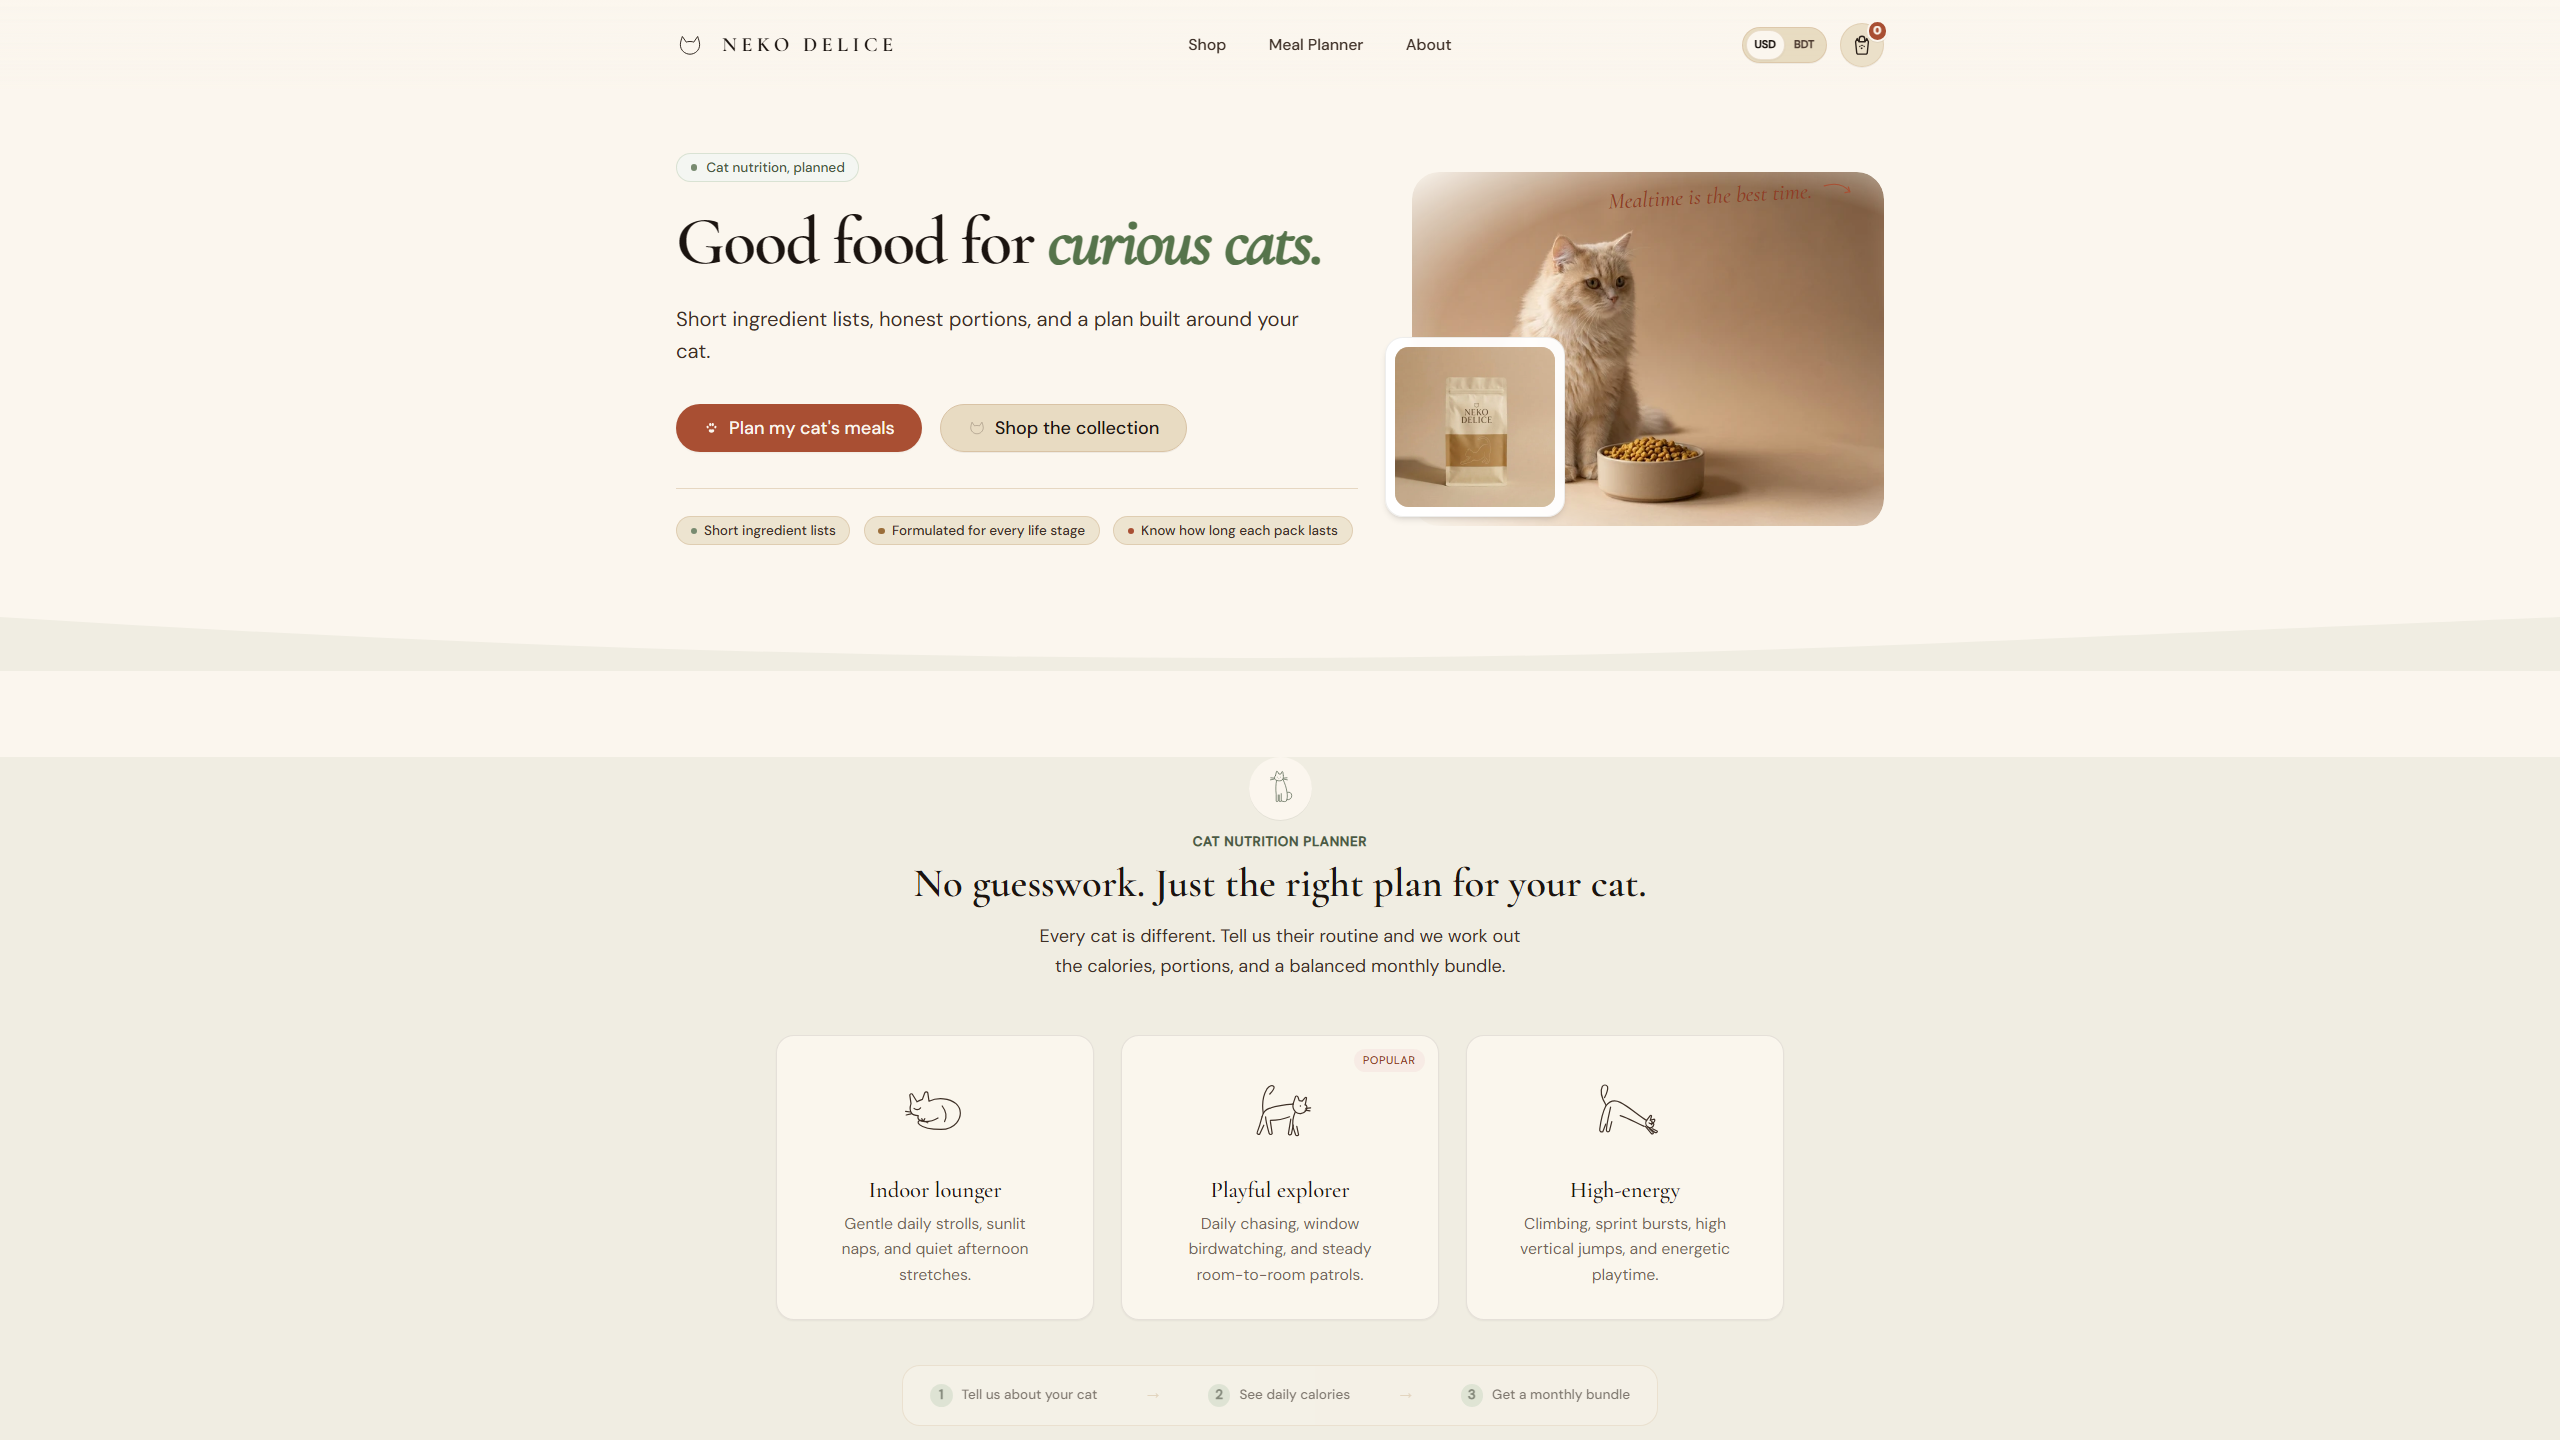
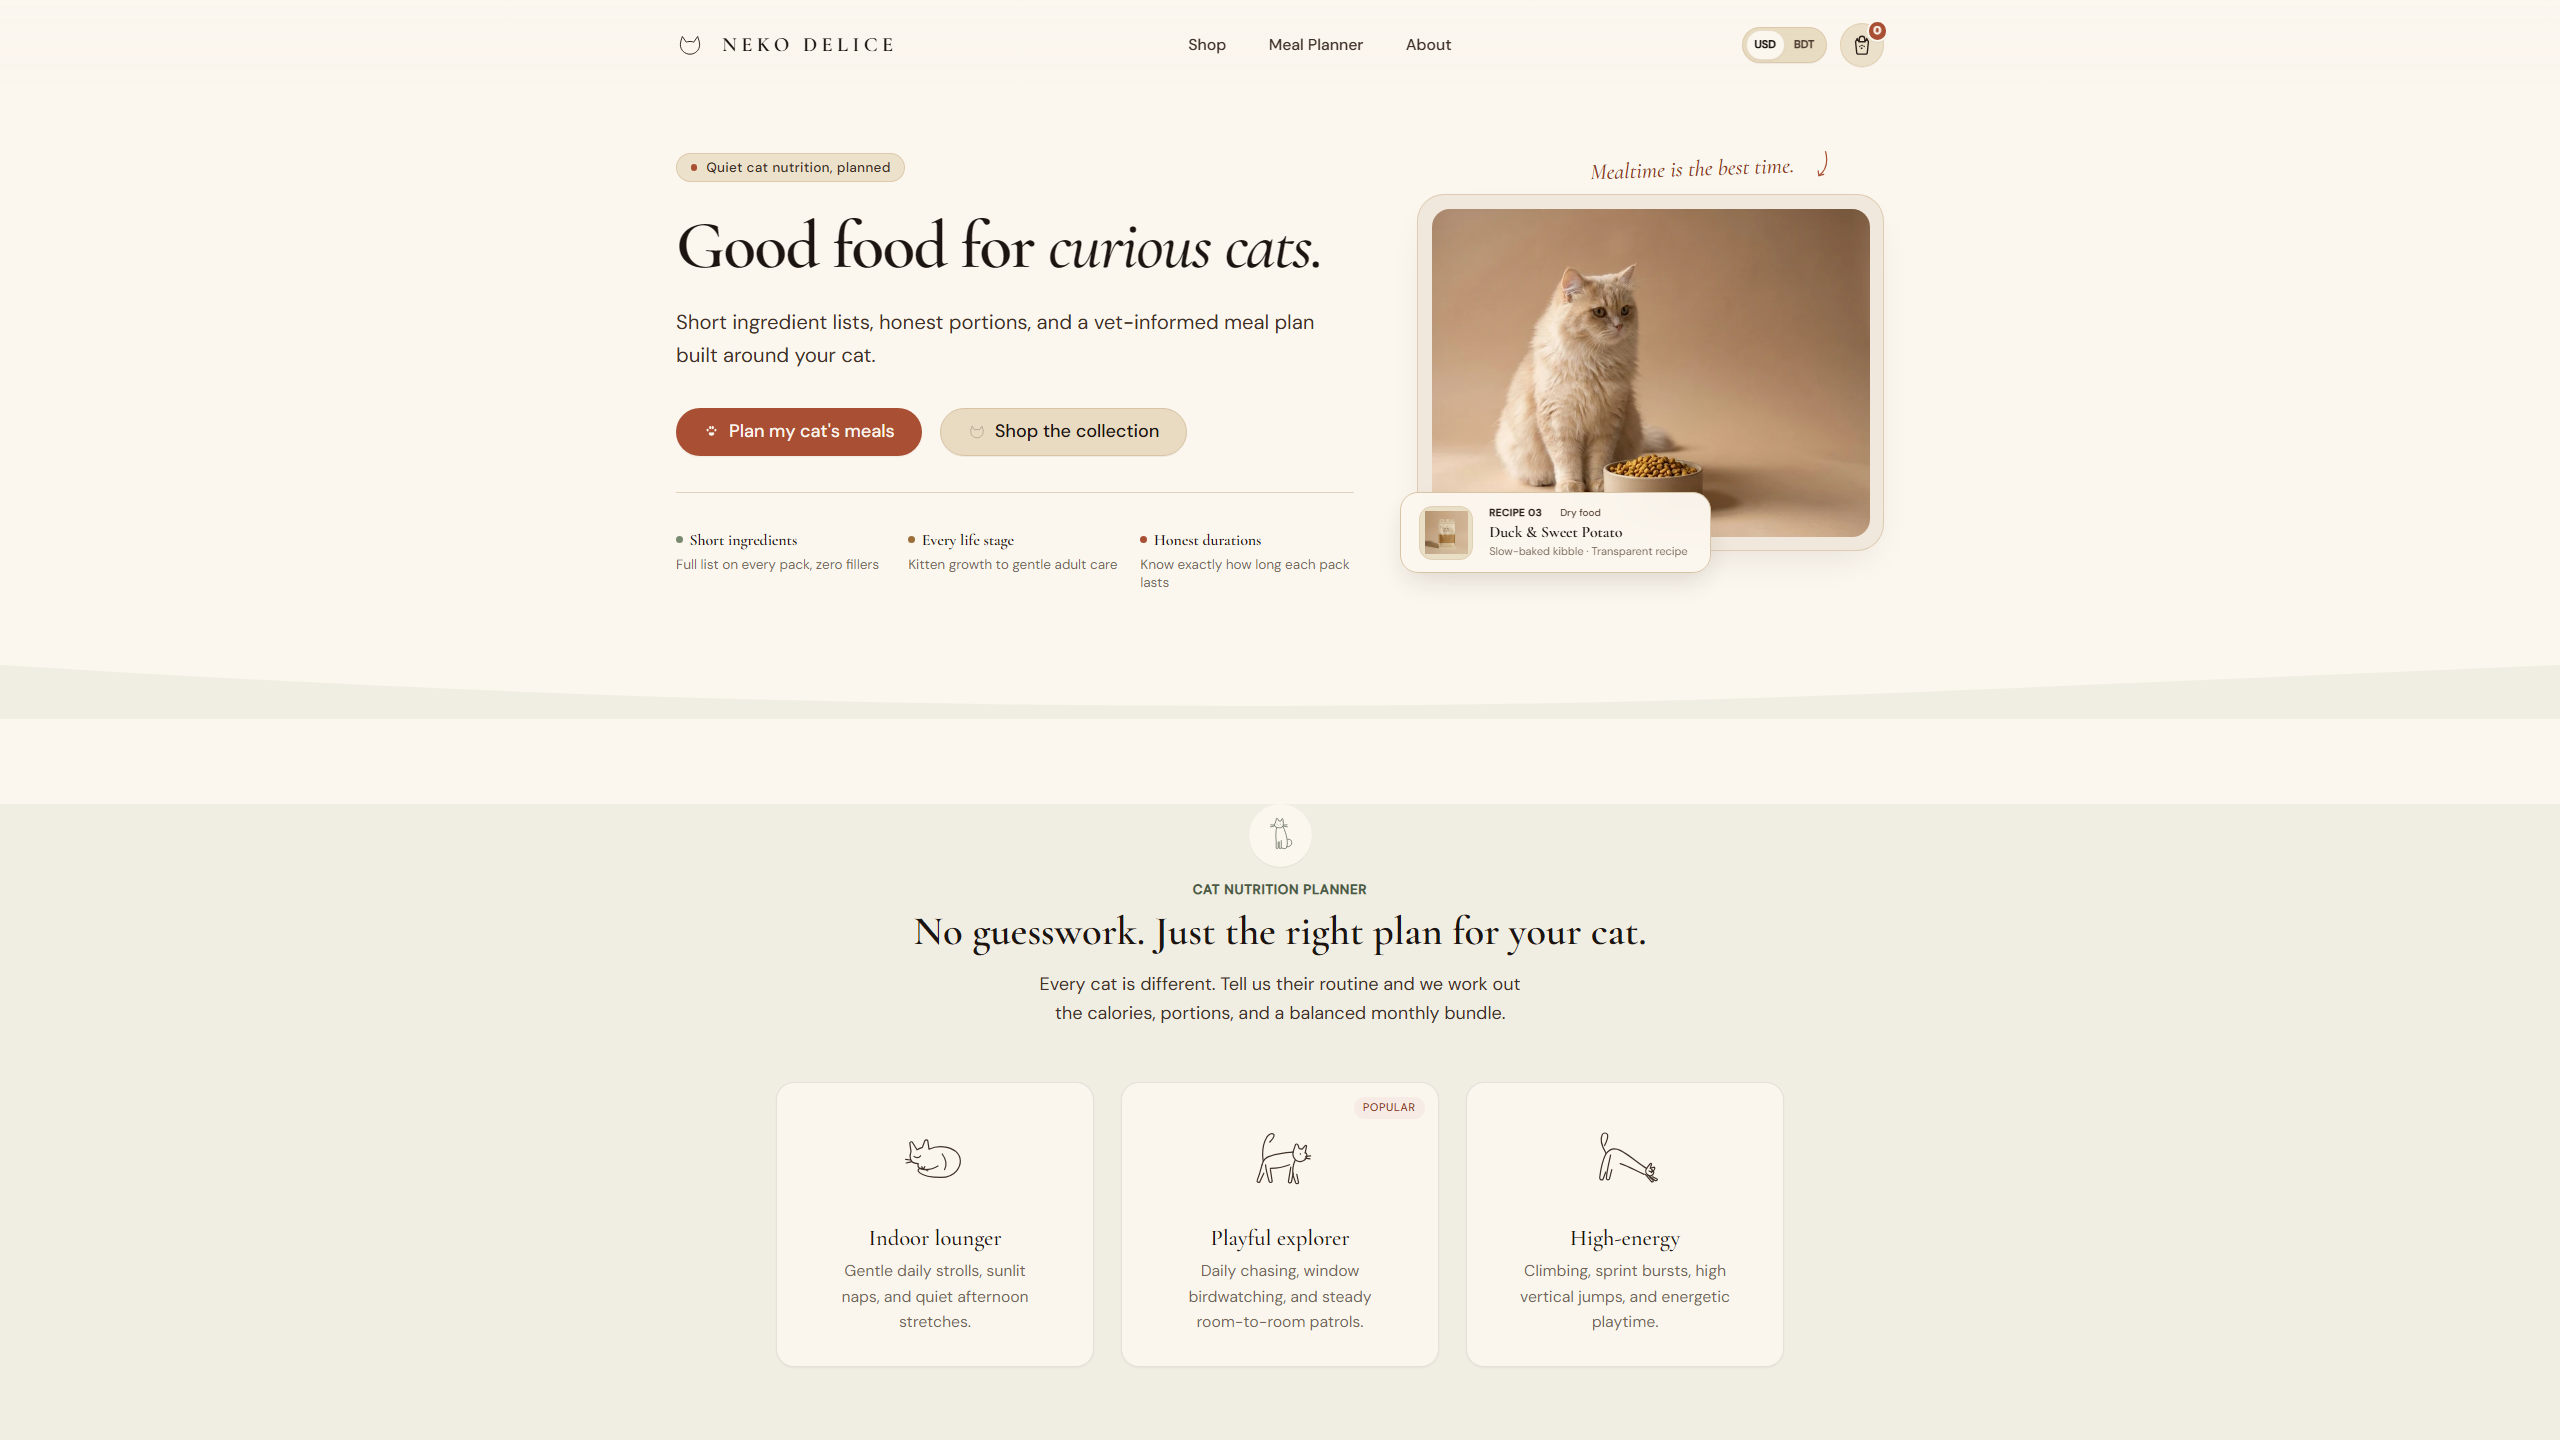
feat: elevate hero aesthetics with archival gallery framing and apothecary recipe plaque

diff --git a/src/pages/Home.tsx b/src/pages/Home.tsx
@@ -244,21 +244,21 @@ export function HomePage() {
       {/* 1. HERO SECTION (Real Cat Photography + Editorial Typography + Product Pouch) */}
       <section id="hero" className="relative pt-8 sm:pt-14 pb-12 sm:pb-20 overflow-hidden bg-cream-50">
         <Container>
-          <div className="grid grid-cols-1 lg:grid-cols-12 items-center gap-8 lg:gap-12">
-            {/* Left Column: Headlines, CTAs & Chips (No Reveal wrapping to avoid LCP delay) */}
+          <div className="grid grid-cols-1 lg:grid-cols-12 items-center gap-10 lg:gap-14">
+            {/* Left Column: Headlines, CTAs & Pillars (No Reveal wrapping to avoid LCP delay) */}
             <div className="lg:col-span-7 flex flex-col items-start order-2 lg:order-1">
-              <div className="inline-flex items-center gap-2 px-3 py-1 rounded-full bg-sage-50 border border-sage-200/80 text-sage-800 text-xs font-medium mb-5">
-                <span className="w-1.5 h-1.5 rounded-full bg-sage-600" aria-hidden="true" />
-                Cat nutrition, planned
+              <div className="inline-flex items-center gap-2 px-3 py-1 rounded-full bg-oat-100/70 border border-sand-300/80 text-espresso-800 text-xs font-medium tracking-wide mb-6">
+                <span className="w-1.5 h-1.5 rounded-full bg-terracotta-600" aria-hidden="true" />
+                <span>Quiet cat nutrition, planned</span>
               </div>
 
-              <h1 className="font-serif text-4xl sm:text-5xl lg:text-6xl font-semibold tracking-tight text-espresso-950 text-balance leading-[1.12] mb-5">
+              <h1 className="font-serif text-4xl sm:text-5xl lg:text-6xl font-semibold tracking-tight text-espresso-950 text-balance leading-[1.1] mb-5">
                 Good food for{' '}
-                <span className="text-[#56744B] italic">curious cats.</span>
+                <span className="italic font-normal">curious cats.</span>
               </h1>
 
               <p className="text-base sm:text-lg text-espresso-800 leading-relaxed max-w-xl mb-8">
-                Short ingredient lists, honest portions, and a plan built around your cat.
+                Short ingredient lists, honest portions, and a vet-informed meal plan built around your cat.
               </p>
 
               <div className="flex flex-wrap items-center gap-4 mb-8">
@@ -283,52 +283,88 @@ export function HomePage() {
                 </Button>
               </div>
 
-              {/* 3 Truthful Chips */}
-              <div className="flex flex-wrap items-center gap-2.5 sm:gap-3 pt-6 border-t border-sand-300/60 w-full text-xs font-medium text-espresso-800">
-                <span className="inline-flex items-center gap-1.5 px-3 py-1 rounded-full bg-oat-100/60 border border-sand-300/70">
-                  <span className="w-1.5 h-1.5 rounded-full bg-sage-600" aria-hidden="true" />
-                  Short ingredient lists
-                </span>
-                <span className="inline-flex items-center gap-1.5 px-3 py-1 rounded-full bg-oat-100/60 border border-sand-300/70">
-                  <span className="w-1.5 h-1.5 rounded-full bg-ochre-600" aria-hidden="true" />
-                  Formulated for every life stage
-                </span>
-                <span className="inline-flex items-center gap-1.5 px-3 py-1 rounded-full bg-oat-100/60 border border-sand-300/70">
-                  <span className="w-1.5 h-1.5 rounded-full bg-terracotta-600" aria-hidden="true" />
-                  Know how long each pack lasts
-                </span>
+              {/* 3 Truthful Brand Pillars */}
+              <div className="grid grid-cols-1 sm:grid-cols-3 gap-4 pt-6 sm:pt-8 border-t border-sand-300/70 w-full">
+                <div className="flex flex-col gap-0.5">
+                  <div className="flex items-center gap-1.5 mb-0.5">
+                    <span className="w-1.5 h-1.5 rounded-full bg-sage-600" aria-hidden="true" />
+                    <span className="font-serif text-sm font-semibold text-espresso-950">Short ingredients</span>
+                  </div>
+                  <span className="text-xs text-espresso-700/80 leading-snug">Full list on every pack, zero fillers</span>
+                </div>
+                <div className="flex flex-col gap-0.5">
+                  <div className="flex items-center gap-1.5 mb-0.5">
+                    <span className="w-1.5 h-1.5 rounded-full bg-ochre-600" aria-hidden="true" />
+                    <span className="font-serif text-sm font-semibold text-espresso-950">Every life stage</span>
+                  </div>
+                  <span className="text-xs text-espresso-700/80 leading-snug">Kitten growth to gentle adult care</span>
+                </div>
+                <div className="flex flex-col gap-0.5">
+                  <div className="flex items-center gap-1.5 mb-0.5">
+                    <span className="w-1.5 h-1.5 rounded-full bg-terracotta-600" aria-hidden="true" />
+                    <span className="font-serif text-sm font-semibold text-espresso-950">Honest durations</span>
+                  </div>
+                  <span className="text-xs text-espresso-700/80 leading-snug">Know exactly how long each pack lasts</span>
+                </div>
               </div>
             </div>
 
-            {/* Right Column: Hero Cat Photo + Floating Pouch + Annotation */}
+            {/* Right Column: Hero Cat Photo + Editorial Recipe Plaque + Annotation */}
             <div className="lg:col-span-5 relative flex justify-center order-1 lg:order-2">
-              <div className="relative w-full max-w-[500px]">
-                {/* Handwritten-style Annotation */}
-                <Annotation
-                  text="Mealtime is the best time."
-                  arrow="curve-right"
-                  rotate={-3}
-                  className="absolute -top-3 right-4 sm:top-2 sm:right-6 z-20"
-                />
-
-                {/* Primary Hero Cat Photo (LCP) */}
-                <div className="relative rounded-3xl overflow-hidden shadow-sm bg-cream-50 [mask-image:radial-gradient(ellipse_at_65%_50%,black_65%,transparent_100%)]">
-                  <SiteImage
-                    name="hero"
-                    priority={true}
-                    sizes="(max-width: 768px) 100vw, 500px"
-                    className="w-full h-auto aspect-[4/3] object-cover"
+              <div className="relative w-full max-w-[520px]">
+                {/* Handwritten Annotation in the margin */}
+                <div className="absolute -top-7 sm:-top-9 right-4 sm:right-10 z-20 pointer-events-none">
+                  <Annotation
+                    text="Mealtime is the best time."
+                    arrow="down"
+                    rotate={-2}
                   />
                 </div>
 
-                {/* Floating Product Pouch Accent (Duck & Sweet Potato Kibble) */}
-                <div className="absolute -bottom-4 -left-3 sm:bottom-2 sm:-left-6 w-32 sm:w-40 aspect-square rounded-2xl bg-white/95 p-2 shadow-md border border-[#2B211A]/8 backdrop-blur-xs transition-transform duration-300 hover:scale-105 z-10">
-                  <ProductImage
-                    slug="duck-sweet-potato-kibble"
-                    imageRole="hero"
-                    sizes="160px"
-                    className="w-full h-full rounded-xl object-contain"
-                  />
+                {/* Gallery Mat Canvas */}
+                <div className="relative rounded-3xl bg-[#F0E8DC] p-2.5 sm:p-3 border border-sand-300/80 shadow-[0_16px_40px_-16px_rgba(43,33,26,0.12)]">
+                  {/* Inner Image Container with natural studio lighting */}
+                  <div className="relative rounded-2xl overflow-hidden bg-oat-100/50 aspect-[4/3]">
+                    <SiteImage
+                      name="hero"
+                      priority={true}
+                      sizes="(max-width: 768px) 100vw, 520px"
+                      className="w-full h-full object-cover"
+                    />
+                  </div>
+
+                  {/* Editorial Recipe Plaque */}
+                  <div className="absolute -bottom-5 left-3 sm:-bottom-5 sm:-left-4 z-20">
+                    <a
+                      href="/product/duck-sweet-potato-kibble"
+                      className="group flex items-center gap-3.5 bg-cream-50/98 backdrop-blur-md px-4 py-2.5 rounded-2xl border border-sand-300 shadow-[0_12px_28px_-6px_rgba(43,33,26,0.14)] hover:border-terracotta-600/40 hover:shadow-[0_16px_34px_-6px_rgba(43,33,26,0.18)] transition-all duration-200"
+                      
+                    >
+                      <div className="w-12 h-12 rounded-xl bg-oat-100/80 p-1 flex-shrink-0 border border-sand-300/50 flex items-center justify-center overflow-hidden">
+                        <ProductImage
+                          slug="duck-sweet-potato-kibble"
+                          imageRole="hero"
+                          sizes="48px"
+                          className="w-full h-full object-contain group-hover:scale-105 transition-transform duration-200"
+                        />
+                      </div>
+                      <div className="flex flex-col pr-1 text-left">
+                        <div className="flex items-center gap-1.5">
+                          <span className="text-[10px] uppercase tracking-wider font-semibold text-ochre-700">
+                            Recipe 03
+                          </span>
+                          <span className="w-1 h-1 rounded-full bg-sand-400" aria-hidden="true" />
+                          <span className="text-[10px] text-espresso-600 font-medium">Dry food</span>
+                        </div>
+                        <span className="font-serif text-sm font-semibold text-espresso-950 group-hover:text-terracotta-700 transition-colors">
+                          Duck & Sweet Potato
+                        </span>
+                        <span className="text-[11px] text-espresso-600/80">
+                          Slow-baked kibble · Transparent recipe
+                        </span>
+                      </div>
+                    </a>
+                  </div>
                 </div>
               </div>
             </div>

diff --git a/PLAN.md b/PLAN.md
@@ -169,3 +169,10 @@ Update the checkbox and "Notes" when a prompt finishes. Do not reorder phases.
 
 
 
+- 2026-10-28: Hero aesthetics & editorial refinement completed:
+  - Eliminated tacky floating white square sticker (`bg-white/95`) and muddy radial-gradient vignette mask that caused the hero photo to feel "slapped on" and cheap.
+  - Housed the high-resolution cat photograph in an archival gallery matting (`bg-[#F0E8DC]` with delicate hairline border `border-sand-300/80` and warm shadow), preserving 100% natural studio lighting and floor shadows.
+  - Introduced an authentic Apothecary Recipe Plaque (`bg-cream-50/98 backdrop-blur-md px-4 py-2.5 rounded-2xl border border-sand-300`) linking directly to Recipe 03 (Duck & Sweet Potato Kibble) with an unblocked view of the cat and bowl.
+  - Elevated display typography with pure Cormorant Garamond 600/500 italic in rich espresso-950 (removing generic green text highlighter), refined the eyebrow badge with terracotta accent, and transformed the 3 SaaS colored-dot pills into 3 elegant editorial brand pillars.
+  - Repositioned the handwritten annotation (`Mealtime is the best time.`) with downward-pointing doodle arrow directing focus towards the bowl and cat.
+  - Verified 0 typecheck errors, 0 lint warnings, 107/107 Vitest tests passing, 97/97 Playwright E2E tests passing, and 100% WCAG AA compliance.
